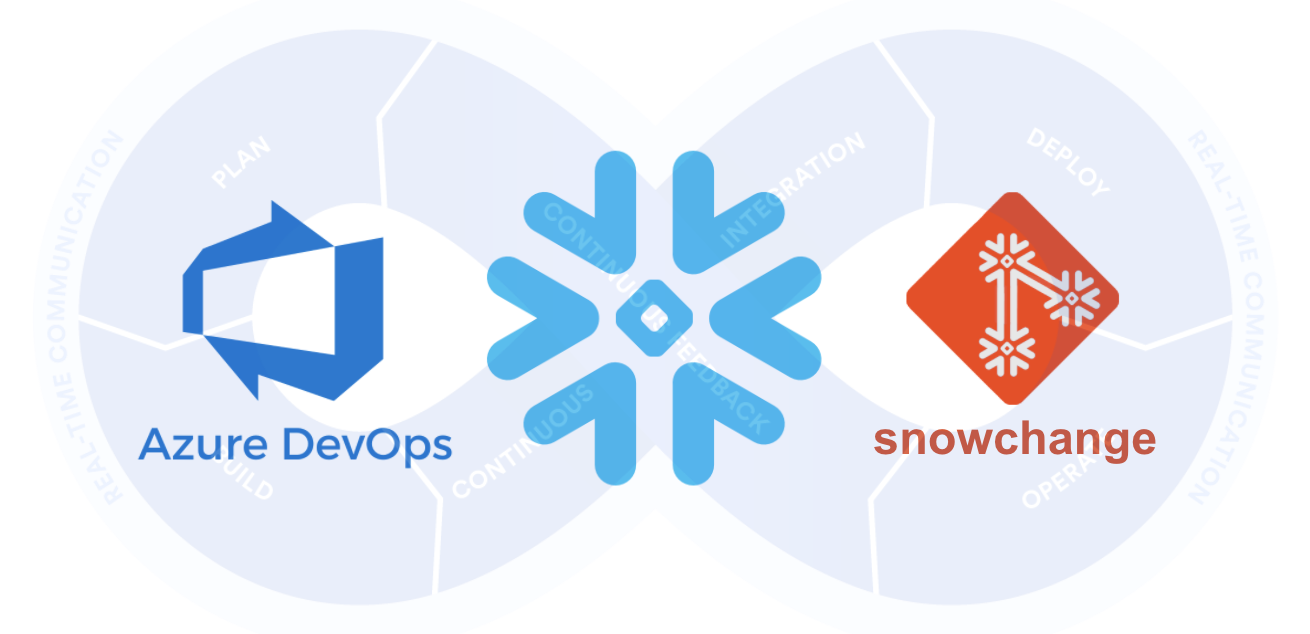
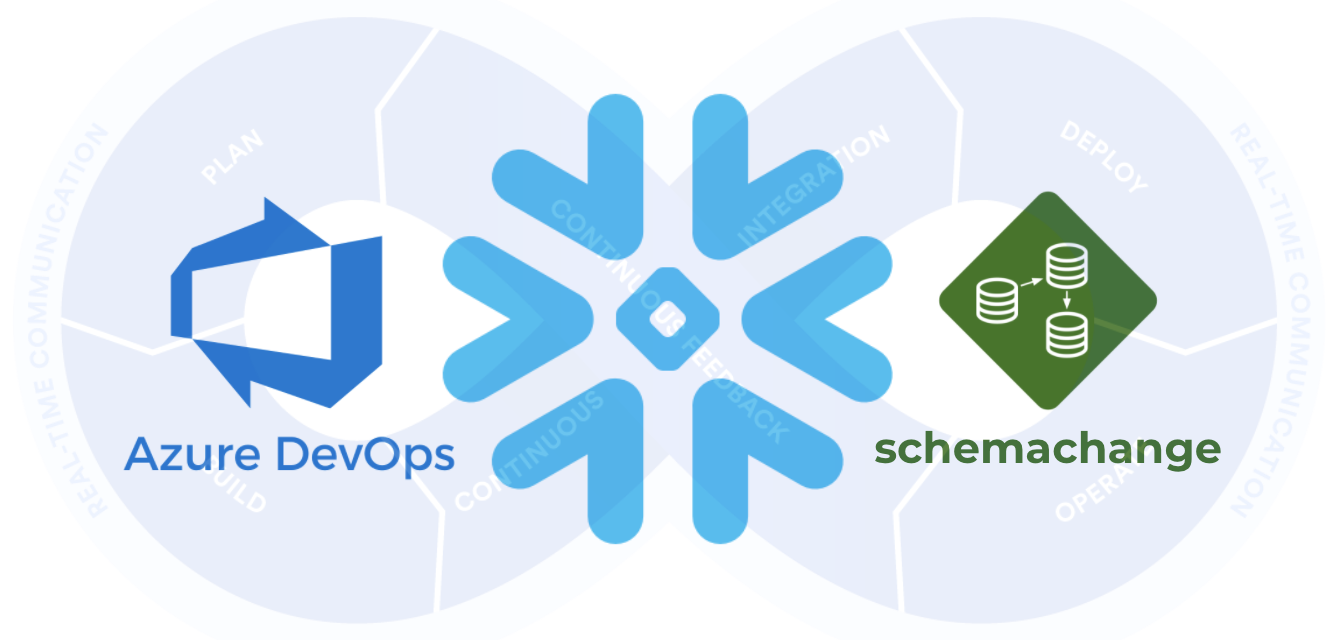
Updates to the images

Changed region(s): [[0.0916, 0.1498, 0.916, 0.8691], [0.5496, 0.5994, 0.5802, 0.6293]]

diff --git a/site/sfguides/src/devops_dcm_schemachange_azure_devops/devops_dcm_schemachange_azure_devops.md b/site/sfguides/src/devops_dcm_schemachange_azure_devops/devops_dcm_schemachange_azure_devops.md
@@ -131,6 +131,8 @@ This guide will be focused on the Azure Pipelines service.
 ## schemachange Overview
 Duration: 2
 
+![schemachange logo](assets/devops_dcm_schemachange_azure_devops-3.png)
+
 Database Change Management (DCM) refers to a set of processes and tools which are used to manage the objects within a database. It’s beyond the scope of this post to provide details around the challenges with and approaches to automating the management of your database objects. If you’re interested in more details, please see my blog post [Embracing Agile Software Delivery and DevOps with Snowflake](https://www.snowflake.com/blog/embracing-agile-software-delivery-and-devops-with-snowflake/).
 
 schemachange is a lightweight Python-based tool to manage all your Snowflake objects. It follows an imperative-style approach to database change management (DCM) and was inspired by [the Flyway database migration tool](https://flywaydb.org/). When schemachange is combined with a version control tool and a CI/CD tool, database changes can be approved and deployed through a pipeline using modern software delivery practices.
